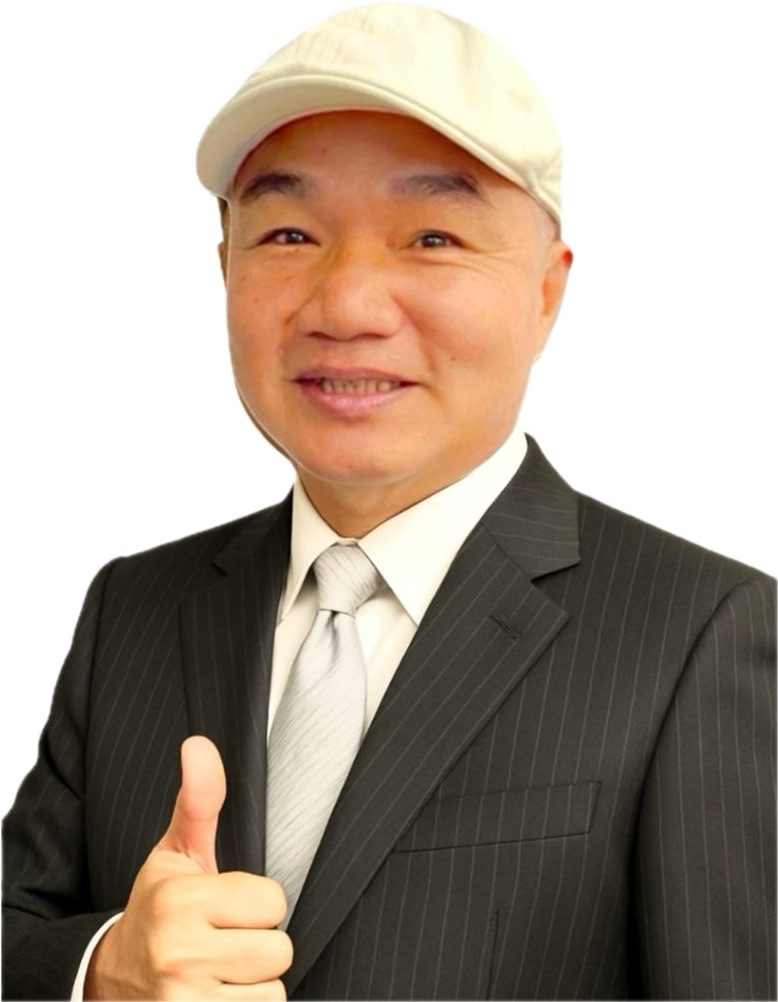
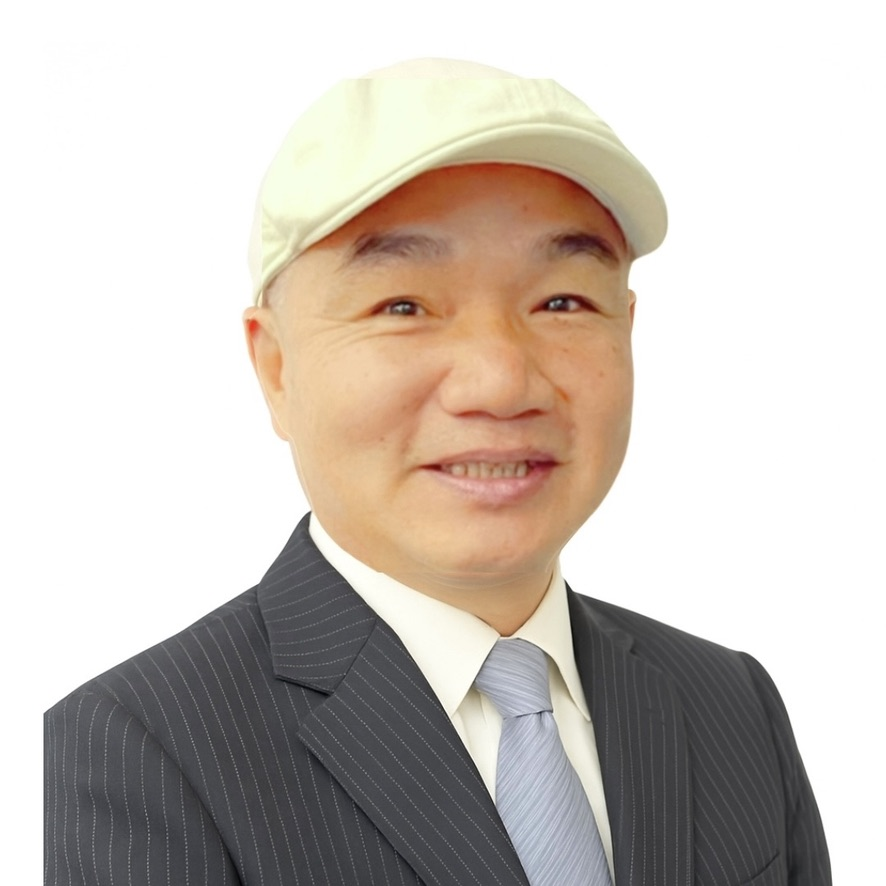
Update footer style and Ayong portrait

diff --git a/styles.css b/styles.css
@@ -572,11 +572,56 @@ h3 {
   color: var(--muted);
 }
 
+.footer-promise {
+  display: flex;
+  align-items: center;
+  justify-content: center;
+  gap: 18px;
+  flex-wrap: wrap;
+  padding: 18px clamp(18px, 5vw, 72px);
+  background: #f8f6f1;
+  color: var(--navy);
+  font-weight: 900;
+}
+
+.footer-promise span {
+  display: inline-flex;
+  align-items: center;
+  gap: 8px;
+  white-space: nowrap;
+}
+
+.footer-promise span::before {
+  content: "✓";
+  display: grid;
+  place-items: center;
+  width: 18px;
+  height: 18px;
+  border: 2px solid var(--navy);
+  border-radius: 50%;
+  font-size: 12px;
+  line-height: 1;
+}
+
+.footer-promise strong {
+  display: inline-flex;
+  align-items: center;
+  gap: 10px;
+  font-size: 18px;
+}
+
+.footer-promise strong::before {
+  content: "⌂";
+  font-size: 34px;
+  line-height: 1;
+}
+
 .site-footer {
   display: grid;
   grid-template-columns: minmax(0, 1fr) minmax(0, 1.2fr);
   gap: 18px;
-  padding: 30px clamp(18px, 5vw, 72px);
+  align-items: center;
+  padding: 26px clamp(18px, 5vw, 72px);
   background: #101827;
   color: rgba(255, 255, 255, 0.78);
 }

diff --git a/index.html b/index.html
@@ -362,13 +362,22 @@
       </section>
     </main>
 
-    <footer class="site-footer">
-      <div>
-        <strong>赫成開發有限公司</strong>
+    <footer>
+      <div class="footer-promise">
+        <span>嚴選好物件</span>
+        <span>價格透明</span>
+        <span>安全交易</span>
+        <span>售後服務</span>
+        <strong>讓我們協助您安心成家・投資增值</strong>
       </div>
-      <div>
-        <p>經紀業特許字號：府地籍字第1120453178號</p>
-        <p>不動產經紀人證號：（112）彰縣字第00538號</p>
+      <div class="site-footer">
+        <div>
+          <strong>赫成開發有限公司</strong>
+        </div>
+        <div>
+          <p>經紀業特許字號：府地籍字第1120453178號</p>
+          <p>不動產經紀人證號：（112）彰縣字第00538號</p>
+        </div>
       </div>
     </footer>
 